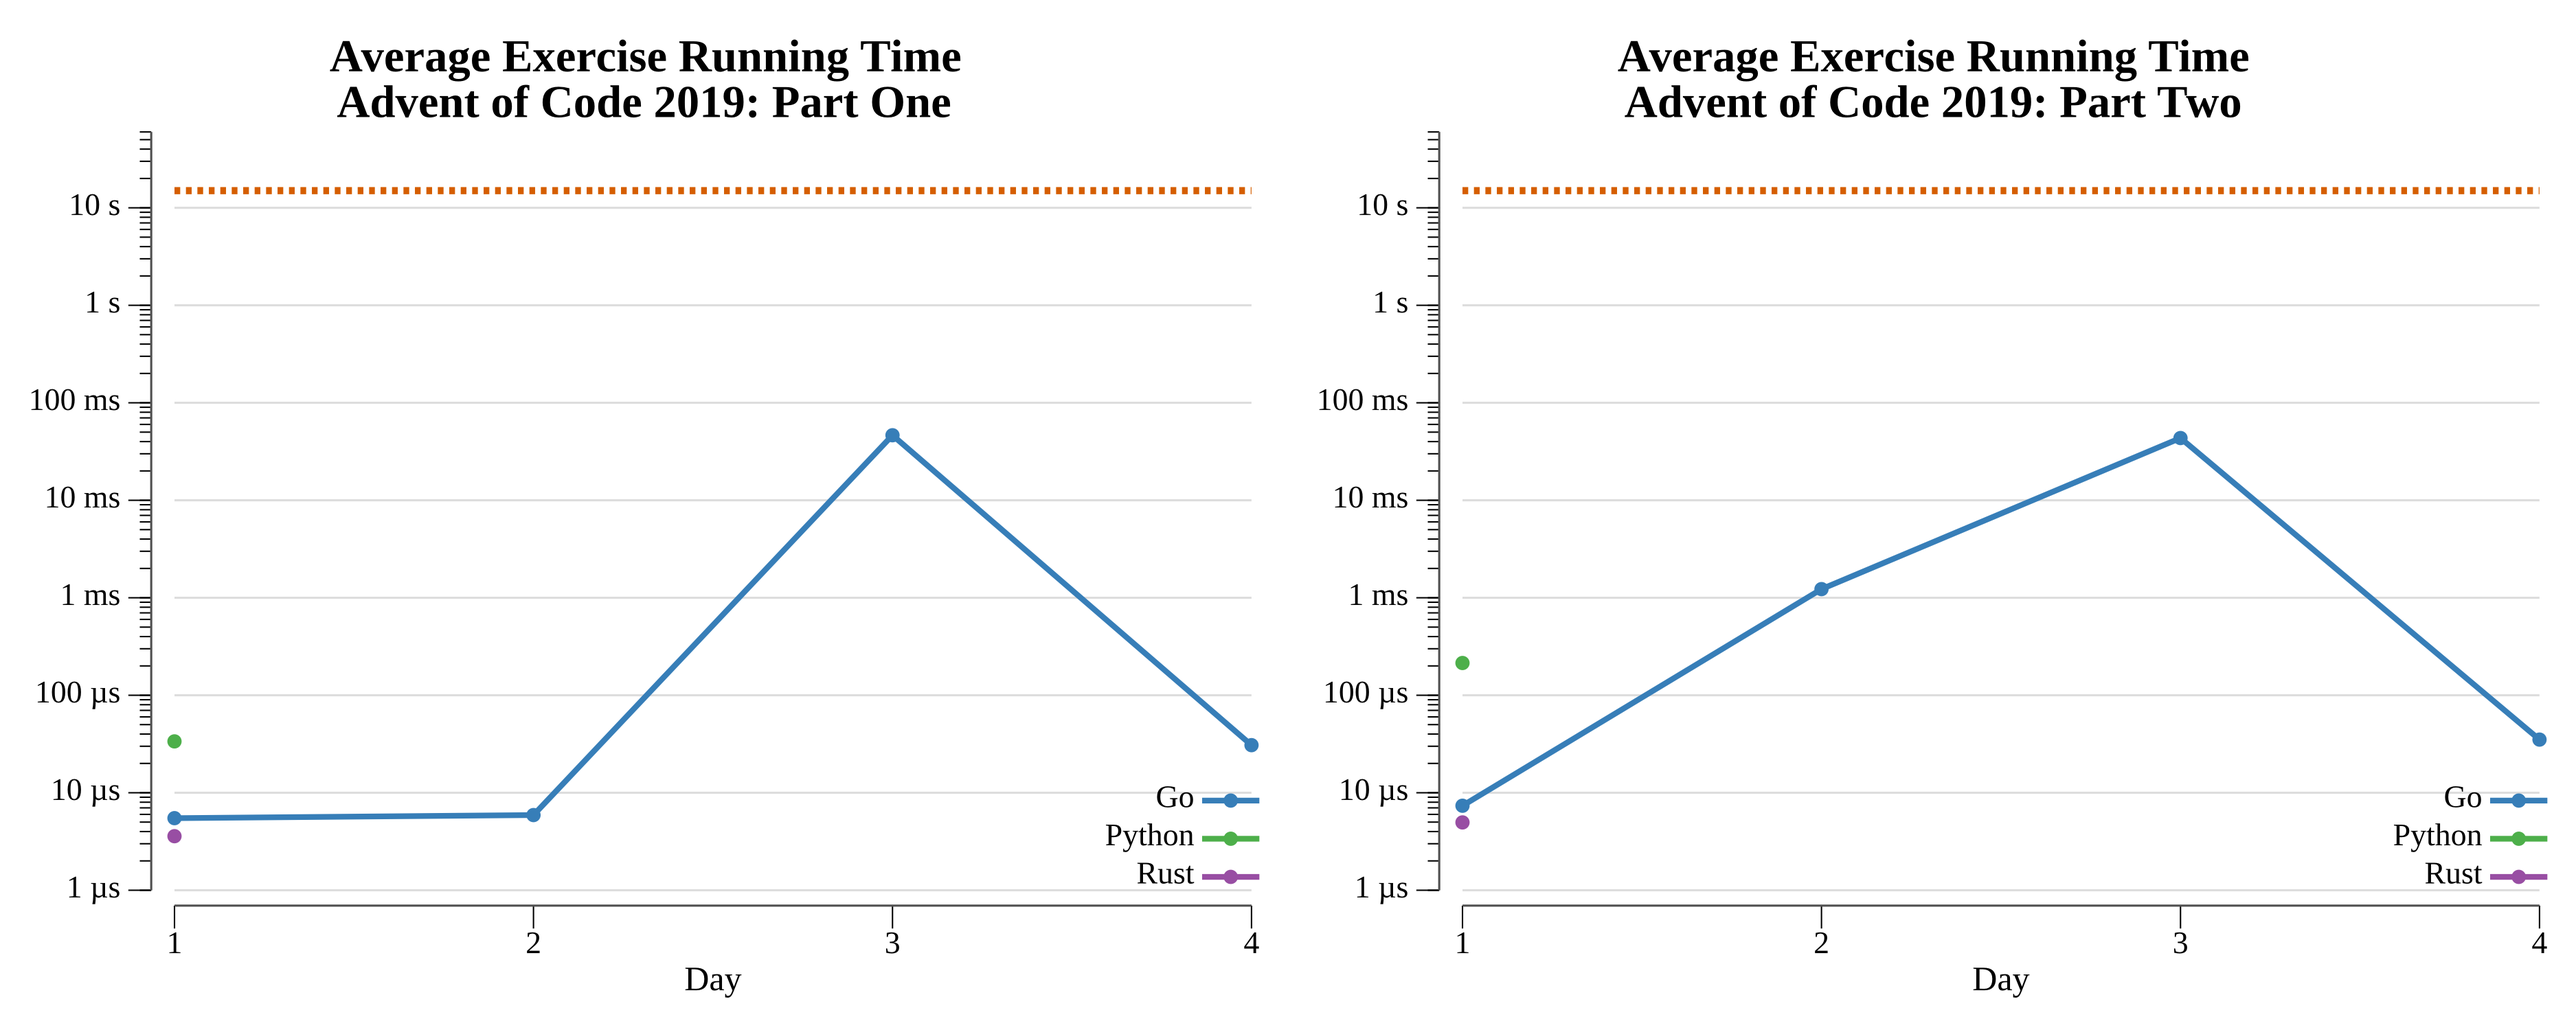
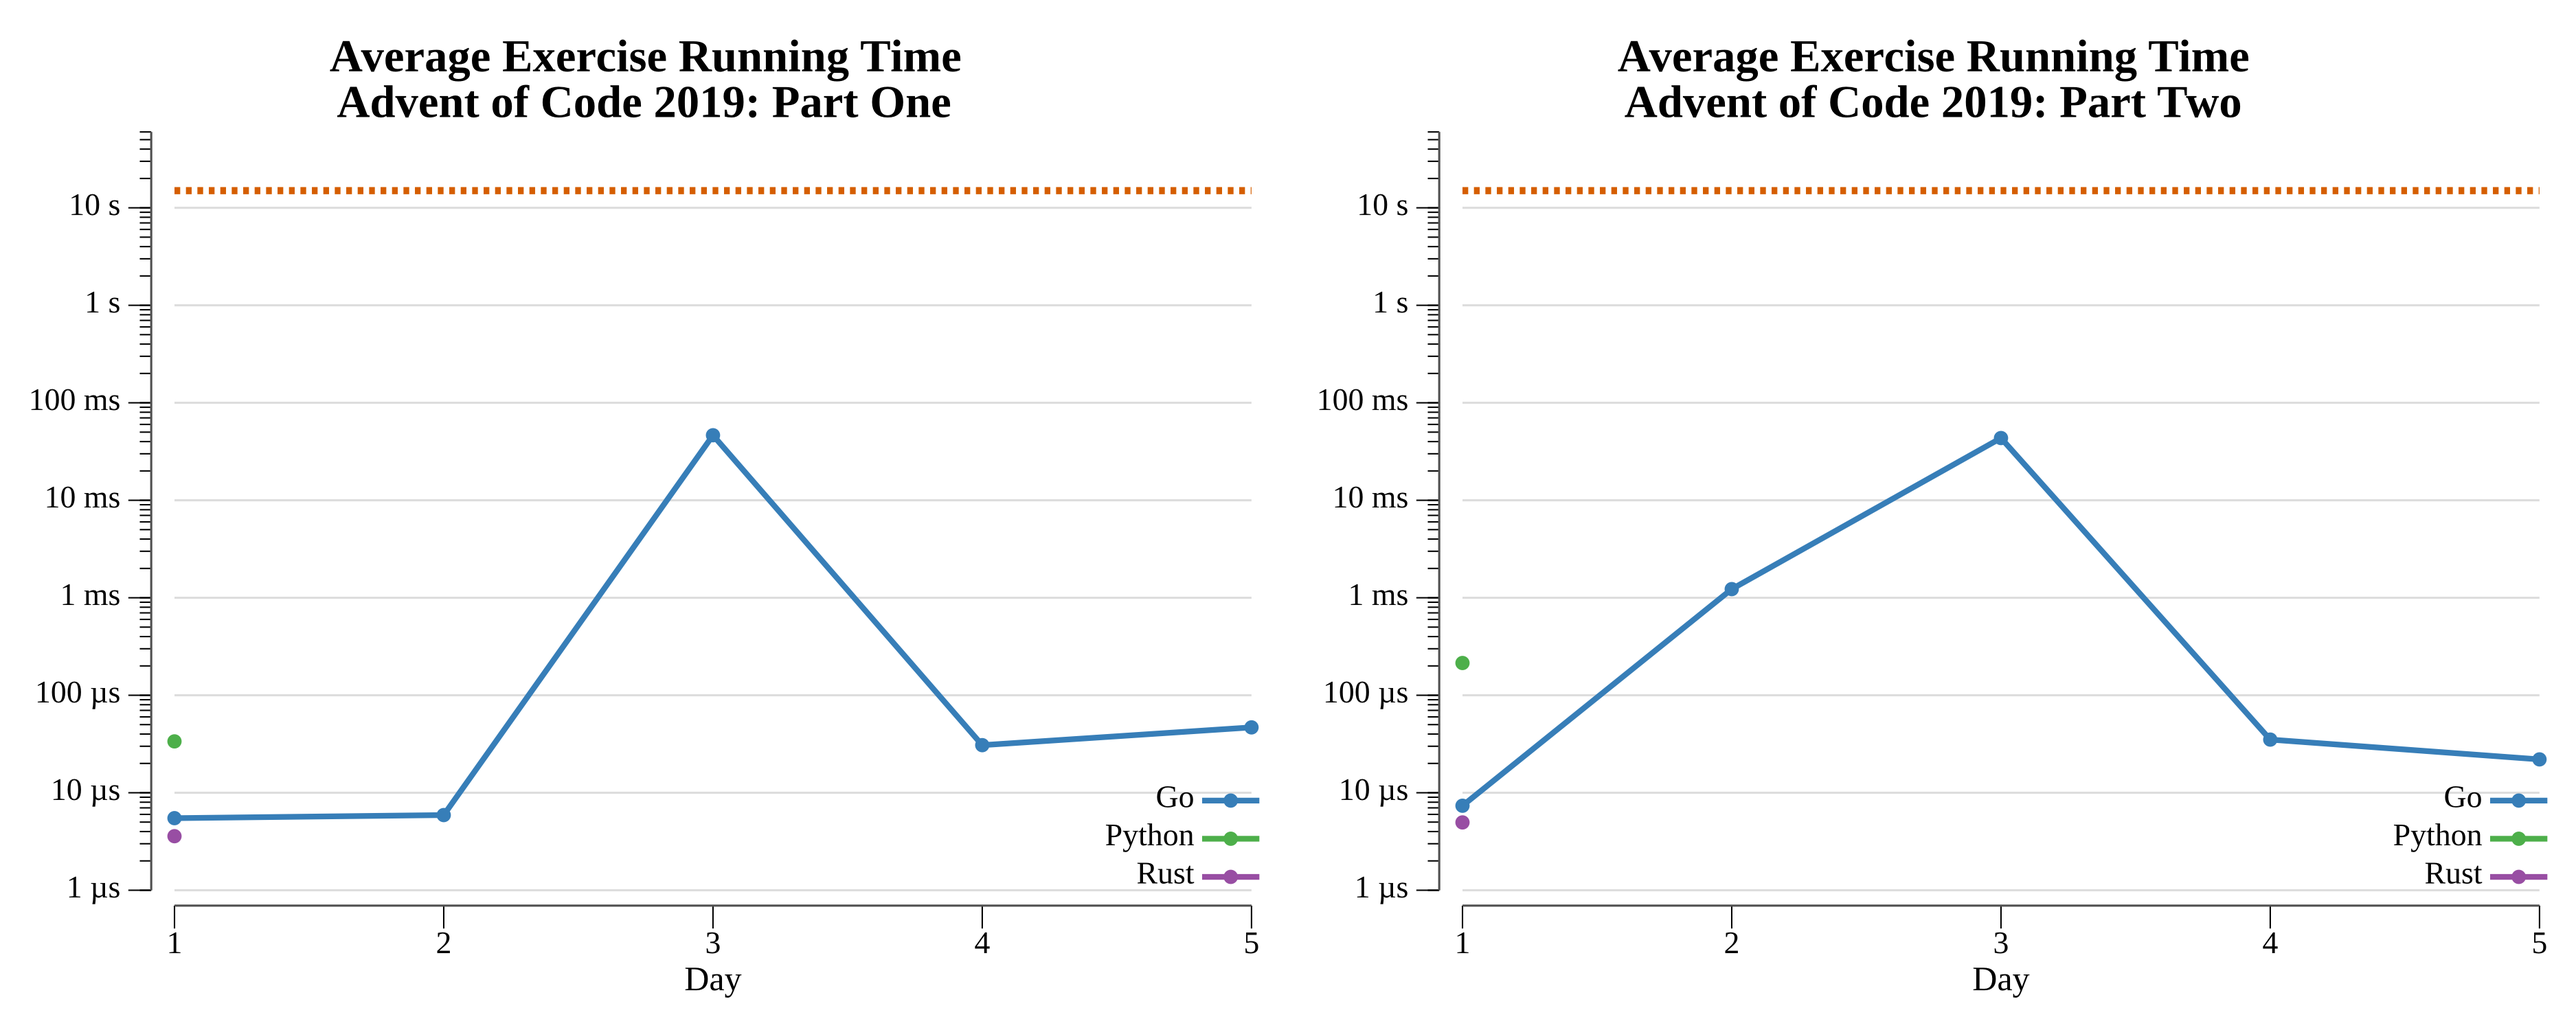
solve 2019 day 5

diff --git a/exercises/2019/05-sunnyWithAChanceOfAsteroids/go/exercise.go b/exercises/2019/05-sunnyWithAChanceOfAsteroids/go/exercise.go
@@ -1,0 +1,126 @@
+package exercises
+
+import (
+	"errors"
+	"strconv"
+	"strings"
+
+	"github.com/asphaltbuffet/advent-of-code/internal/common"
+)
+
+var errNoOutput = errors.New("program produced no output")
+
+// Exercise for Advent of Code 2019 day 5.
+type Exercise struct {
+	common.BaseExercise
+}
+
+// parseProgram parses a comma-separated Intcode program into a []int.
+func parseProgram(instr string) []int {
+	parts := strings.Split(strings.TrimSpace(instr), ",")
+	mem := make([]int, len(parts))
+	for i, p := range parts {
+		n, _ := strconv.Atoi(strings.TrimSpace(p))
+		mem[i] = n
+	}
+	return mem
+}
+
+// runIntcode runs the Intcode program with the given input queue and returns all outputs.
+//
+//nolint:gocognit // Intcode VM opcode dispatch is inherently complex
+func runIntcode(prog []int, inputs []int) []int {
+	// Copy memory so the original is not modified.
+	mem := make([]int, len(prog))
+	copy(mem, prog)
+
+	ip := 0
+	inIdx := 0
+	var outputs []int
+
+	param := func(offset, mode int) int {
+		v := mem[ip+offset]
+		if mode == 0 {
+			return mem[v] // position mode
+		}
+		return v // immediate mode
+	}
+
+	for {
+		instr := mem[ip]
+		opcode := instr % 100
+		modeC := (instr / 100) % 10
+		modeB := (instr / 1000) % 10
+		// modeA (writes) is always position mode; not needed.
+
+		switch opcode {
+		case 1: // add
+			mem[mem[ip+3]] = param(1, modeC) + param(2, modeB)
+			ip += 4
+		case 2: // multiply
+			mem[mem[ip+3]] = param(1, modeC) * param(2, modeB)
+			ip += 4
+		case 3: // input
+			mem[mem[ip+1]] = inputs[inIdx]
+			inIdx++
+			ip += 2
+		case 4: // output
+			outputs = append(outputs, param(1, modeC))
+			ip += 2
+		case 5: // jump-if-true
+			if param(1, modeC) != 0 {
+				ip = param(2, modeB)
+			} else {
+				ip += 3
+			}
+		case 6: // jump-if-false
+			if param(1, modeC) == 0 {
+				ip = param(2, modeB)
+			} else {
+				ip += 3
+			}
+		case 7: // less-than
+			if param(1, modeC) < param(2, modeB) {
+				mem[mem[ip+3]] = 1
+			} else {
+				mem[mem[ip+3]] = 0
+			}
+			ip += 4
+		case 8: // equals
+			if param(1, modeC) == param(2, modeB) {
+				mem[mem[ip+3]] = 1
+			} else {
+				mem[mem[ip+3]] = 0
+			}
+			ip += 4
+		case 99: // halt
+			return outputs
+		default:
+			// Unknown opcode — halt to avoid infinite loop.
+			return outputs
+		}
+	}
+}
+
+// One returns the answer to the first part of the exercise.
+// Runs the Intcode program with input=1 (AC unit ID) and returns the diagnostic code
+// (last output value; all preceding outputs should be 0).
+func (e Exercise) One(instr string) (any, error) {
+	prog := parseProgram(instr)
+	outputs := runIntcode(prog, []int{1})
+	if len(outputs) == 0 {
+		return nil, errNoOutput
+	}
+	return outputs[len(outputs)-1], nil
+}
+
+// Two returns the answer to the second part of the exercise.
+// Runs the Intcode program with input=5 (thermal radiator controller ID) and returns the diagnostic code.
+func (e Exercise) Two(instr string) (any, error) {
+	prog := parseProgram(instr)
+	outputs := runIntcode(prog, []int{5})
+	if len(outputs) == 0 {
+		return nil, errNoOutput
+	}
+	return outputs[len(outputs)-1], nil
+}

diff --git a/exercises/2019/05-sunnyWithAChanceOfAsteroids/README.md b/exercises/2019/05-sunnyWithAChanceOfAsteroids/README.md
@@ -1,0 +1,29 @@
+# [Day 5: Sunny with a Chance of Asteroids](https://adventofcode.com/2019/day/5)
+
+<!-- These are helper text to make formatting the yearly readme consistent and easier...
+
+[Day 5: Sunny with a Chance of Asteroids][rm5]
+[Go][go5]
+[Python][py5]
+
+[rm5]: 05-sunnyWithAChanceOfAsteroids/README.md
+[go5]: 05-sunnyWithAChanceOfAsteroids/go
+[py5]: 05-sunnyWithAChanceOfAsteroids/py
+
+-->
+
+## Notes
+
+Day 5 extends the Day 2 Intcode computer with parameter modes (position vs immediate, decoded from the hundreds, thousands, and ten-thousands digits of each instruction word) and four new opcodes: 3 (read input), 4 (write output), 5 (jump-if-true), 6 (jump-if-false), 7 (less-than), and 8 (equals). Part One runs with input=1 and returns the last output (diagnostic code). Part Two runs with input=5 using the jump and compare opcodes, also returning the single output.
+
+## Go
+
+```text
+Solving (Go)…
+1.0:  PASS            40.702µs
+2.0:  PASS            21.609µs
+```
+
+## Run Times
+
+![run-times](run-times.png)

diff --git a/exercises/2019/README.md b/exercises/2019/README.md
@@ -10,7 +10,7 @@
 | [Day 2: 1202 Program Alarm][rm_2]                 |  ★ ★  | [Go][go_2] |
 | [Day 3: Crossed Wires][rm_3]                      |  ★ ★  | [Go][go_3] |
 | [Day 4: Secure Container][rm_4]                   |  ★ ★  | [Go][go_4] |
-| 5                                                 |  ☆ ☆  |                            |
+| [Day 5: Sunny with a Chance of Asteroids][rm_5]  |  ★ ★  | [Go][go_5] |
 | 6                                                 |  ☆ ☆  |                            |
 | 7                                                 |  ☆ ☆  |                            |
 | 8                                                 |  ☆ ☆  |                            |
@@ -58,3 +58,6 @@ Day       Time    Rank  Score       Time    Rank  Score
 
 [rm_4]: 04-secureContainer/README.md
 [go_4]: 04-secureContainer/go
+
+[rm_5]: 05-sunnyWithAChanceOfAsteroids/README.md
+[go_5]: 05-sunnyWithAChanceOfAsteroids/go
